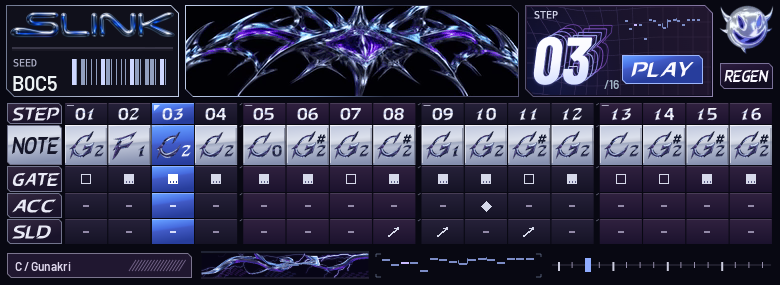
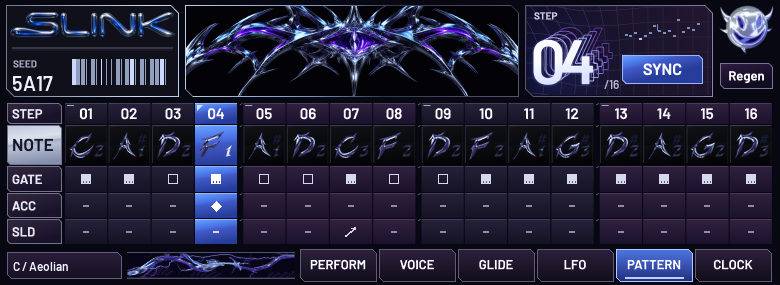
docs: publish the six freesp16 pages and refresh desktop captures

diff --git a/README.md b/README.md
@@ -10,12 +10,12 @@
   </tr>
   <tr>
     <td align="center"><a href="docs/slink-screen.gif"><img src="docs/slink-screen.gif" alt="Slink cycling through Pattern, Voice, Tone, Sequencer, and Clock in hdslaveOS Stage"></a></td>
-    <td align="center"><a href="#freesp16-on-sp-16"><img src="docs/slink-sp16-thorn.png" alt="Slink’s freesp16 Pattern page with its chrome crest and sixteen-step score"></a></td>
+    <td align="center"><a href="docs/screen.md#thorn-crown-on-freesp16"><img src="docs/slink-sp16-thorn.png" alt="Thorn Crown playing a sixteen-step pattern on freesp16"></a></td>
     <td align="center"><a href="mac-clap/assets/desktop-preview.gif"><img src="mac-clap/assets/desktop-preview.gif" alt="Slink acid bass sequencer and voice controls during playback"></a></td>
   </tr>
 </table>
 
-[See all five silver MPC pages](docs/screen.md#silver-panel-on-mpc) · [View the Blacklight Transfer theme](docs/slink-mpc-blacklight.png)
+[See all six freesp16 pages](docs/screen.md#thorn-crown-on-freesp16) · [Watch the freesp16 panel in motion](docs/slink-sp16.gif) · [See all five silver MPC pages](docs/screen.md#silver-panel-on-mpc) · [View Blacklight Transfer](docs/slink-mpc-blacklight.png)
 
 [Download Slink 0.6.1 for MPC Sample](https://github.com/hdslave/hdslave-Slink-Synth/releases/tag/v0.6.1) · [Download Slink 0.6.0 for freesp16, macOS or Windows](https://github.com/hdslave/hdslave-Slink-Synth/releases/tag/v0.6.0)
 
@@ -107,9 +107,9 @@ for Diode and 18 dB, the band's lower edge for Twin Peak. So with Resonance at 0
 | Control | Range | The applet's |
 |---|---|---|
 | Mode | Sequence / Notes | — (new). The sequencer on or off. **Sequence** plays the voice, and pads 1-16 play its steps (see [MIDI notes and pads](#midi-notes-and-pads)). **Notes**: your MIDI notes play it instead, the pads too, chromatic (see [Mode: Notes](#mode-notes)); TB-3PO goes on counting unheard, so switching back lands in time. |
-| Seed Mode | Random / Locked | The die / the lock. **Random**: every reset picks a new seed (a new pattern); the Seed shows it. **Locked**: the seed stays. |
-| Seed | 0000 – ffff | The 16-bit seed, shown in hex as on the module. A new seed plays from the next clock. |
-| Regen | button | Turning the encoder past the die or the lock: a reset now. |
+| Seed Mode | Random / Locked | New instances start **Locked**. **Random**: every reset picks a new seed (a new pattern); the Seed shows it. **Locked**: the seed stays. |
+| Seed | 0000 – ffff | The 16-bit seed, shown in hex as on the module. While stopped, an edit updates the score immediately. During playback it takes effect on the next clock. |
+| Regen | button | A reset pulse. Pressing Regen on the instrument panel explicitly picks a fresh seed, including in Locked mode. |
 | Mutate | 0 – 100 % | — (new): at a reset that brings a new seed (Seed Mode: Random), only this share of the steps take the new seed's pattern; the rest keep the one playing, so the line changes a little each time. Which steps change comes from the new seed. 0 % is the applet. Seed and Seed Back give a seed's own pattern, not the mutated mix. |
 | Seed Back | button | — (new): back to the seed before, and Seed Mode to Locked so the next Play keeps it. It remembers the last 16 seeds whose patterns played (a knob turned through seeds remembers only the ones that played); press again to go further back. |
 | Density | -7 – +7 | Density. Its distance from 0 sets how many steps play (0: 10 %, ±7: all); left of +1, fewer different pitches and more repeated notes (-7: the root alone). |
@@ -153,9 +153,8 @@ the bottom left.
 - **Nothing moves.** The play head, the seed, Seed Back's memory and the transposition stay as they were. While the
   host plays, the sequencer's next step takes the voice back, as it would have played. A pad hit on the very frame a
   step comes (Play, say) gives way to that step.
-- **The pattern that will play.** A seed, Density or a scale with another number of notes set while stopped waits
-  for the next clock (the screen reads PENDING over the pattern before): the pads already play the steps that clock
-  will play.
+- **The pattern that will play.** Changing Seed while stopped updates the score and the steps you can audition. Density and scale-size edits take
+  effect on the next clock. The pads already audition the steps that clock will play.
 - **Letting go does nothing**: the step plays to its end. A pad hit again while its step sounds strikes again (both
   envelopes from the start). Two pads at once (in one block): the louder plays, once; on a tie, the later. A host's
   choke of the pad, or All Sound Off (CC 120), stops it; all notes off (CC 123) does not. All Sound Off (and a choke
@@ -192,7 +191,7 @@ step (legato: no new envelope, but the step's own accent and decay). Accented st
 pattern holds 32 steps of notes, gates, slides, accents and octave flags; Steps sets how many play.
 
 The pattern is made again from the seed at the next clock when Density, the scale's number of notes or the seed
-changes. Root, Octave, Transpose and a scale of the same size only move its pitches.
+changes during playback. A seed edited while stopped updates the pattern immediately. Root, Octave, Transpose and a scale of the same size only move its pitches.
 
 ### What the module does, kept
 
@@ -212,7 +211,7 @@ These come from the applet's code and are kept so the plug-in plays what the mod
   exact.
 - **The gate's length comes from the tempo.** The applet measures half a clock from the last two clocks: the same
   while the tempo holds (on the module the first note after the clock starts is long).
-- **A new seed plays from the next clock.** On the module a typed-in seed waits for a Regen pulse (its later
+- **While stopped, an edit updates the score immediately. During playback it takes effect on the next clock.** On the module a typed-in seed waits for a Regen pulse (its later
   firmware changed this too).
 - **The host stopping shuts the gate.** The module would hold a sliding step's gate until the next clock.
 - **A scale change requantizes the transposition.** The module's quantizer keeps the cell it chose in the old
@@ -234,8 +233,7 @@ instance on every page, in Edit and Stage, until Melodee restarts; projects and 
 - **PATTERN**, TB-3PO's own screen: the seed (locked or random), the transport and the step in the dark window; then
   the scale, root, octave, density and division; then one column a step with its number, nearest note, gate (a
   filled block; a rest is hollow), accent (a diamond) and outgoing slide (an arrow), the playing column lit. A
-  32-step pattern stacks two banks of 16. The wheel dials the seed and locks it, so the pattern you dial is kept; it
-  plays from the next clock (until then the window reads PENDING over the pattern still playing); Push is Regen;
+  32-step pattern stacks two banks of 16. The wheel dials the seed and locks it, so the pattern you dial is kept; a stopped edit updates the score immediately. During playback the window reads PENDING until the next clock; Push is Regen;
   Shift + Push is Seed Back. K1-K3: Cutoff, Resonance, Env Mod. [docs/screen.md](docs/screen.md) has the details.
 - **VOICE** and **TONE**: the voice's knobs, beside the filter's response (Cutoff's reading marked). VOICE ends with the cutoff LFO. TONE ends with the pitch LFO.
 - **SEQUENCER** and **CLOCK**: SEQUENCER pairs its settings with the score. On the silver CLOCK page, Clock Div, Swing, Reset and Theme sit above a full-width score.
@@ -249,14 +247,14 @@ choice a step, a knob 1/128, 1/1024 with Shift; Push again leaves), or presses a
 
 | Preset | Seed | Patch |
 |---|---|---|
-| Default | Random | The applet's start: Gunakri, density +5, 16 steps; a new pattern every Play. |
+| Default | 3039 | Gunakri, density +5, 16 steps. Play restarts the same pattern. |
 | Acid Line | 5a17 | Aeolian, density +5, low cutoff, high resonance and accent. |
 | Root Pulse | 0303 | Semitone, density -7: every step plays, the root alone, with octave jumps and full accent. |
 | Square Lead | beef | Phrygian, square wave an octave up, the 303 glide. |
 | Dub Steps | 1d0b | Dorian, density +3, 12 steps an octave down, long decay. |
 | Note Bass | — | Mode: Notes: a dark, resonant bass to play from Melodee's notes (glides and accents as above). |
 
-All the TB-3PO presets but Default lock their seed, so they play the same pattern every time.
+All the TB-3PO presets lock their seed, so they play the same pattern every time.
 
 ## Cost
 
@@ -282,11 +280,11 @@ nothing until it is hit (then a step's pitch, or a pattern made again once when 
 
 The ARMv7 build is version **0.6.0**. Its panel uses freesp16’s custom-screen extension and six physical encoders. Choose **Track Type → Plugin → Select Plugin → hdslave Slink → Open UI**. The release ZIP installs the plug-in at `freesp16-data/freesp16/Plugins/TB-MPC-3-P-0.clap` on a stick with a plug-in-capable freesp16 build.
 
-Slink on freesp16 opens on the **Thorn Crown Pattern** page. Sixteen columns show the step number, pitch, gate, accent and outgoing slide. The cobalt column follows playback. The note row uses Razor Choir, a set of hooked chrome pitch letters with matching numerals for steps and octaves. The octave sits low to the right of each letter, with the sharp directly above it when present. Tap a column to audition its step. During playback the grid follows steps 17–32 automatically. When stopped, tap the large step counter to switch halves of a long pattern.
+Slink on freesp16 opens on the **Thorn Crown Pattern** page. Sixteen columns show the step number, pitch, gate, accent and outgoing slide. The cobalt column follows playback. The note row uses Razor Choir, with hooked chrome pitch letters and matching octave numerals. The numbered headers and panel controls use Barlow SemiBold. The octave sits low to the right of each letter, with the sharp directly above it when present. Press a numbered header to audition its step. Drag a pitch vertically to edit it in semitones. Tap Gate, Accent or Slide to toggle it, or drag across the row to paint the same setting. The first edit locks a random pattern to its displayed seed. The project saves edits with that seed. During playback the grid follows steps 17–32 automatically. When stopped, tap the large step counter to switch halves of a long pattern.
 
-**Play** auditions the sequence locally at the host tempo while the transport is stopped. **Stop** ends that preview. Starting freesp16’s transport takes over and the button reads **Sync**. Tap the thorn crest to pause or resume its camera independently. **Regen** regenerates the pattern, and tapping the seed plate recalls the previous seed.
+**Play** auditions the sequence locally at the host tempo while the transport is stopped. **Stop** ends that preview. Starting freesp16’s transport takes over and the button reads **Sync**. Tap the thorn crest to pause or resume its camera independently. **Regen** rolls a fresh seed each time you tap it. **Locked** keeps that seed across transport starts. Tap the seed value to recall a previous seed. Drag the barcode to adjust the seed.
 
-Tap the root/scale plate at lower left for the six bank tabs, or use the main selector to move between banks. The six encoders follow the selected bank. Voice displays the filter response, LFO shows modulation over one beat, and Perform, Glide and Clock retain the touch-playable pitch ribbon.
+Tap **Perform**, **Voice**, **Glide**, **LFO**, **Pattern** or **Clock** along the bottom of any Slink page. The cobalt underline marks the active bank. Turn its six encoders or drag up or down on the corresponding values in the host strip below. The main selector also changes banks. The crest, transport and seed controls stay in the same place throughout. On **Voice**, drag across the response graph to change cutoff or upward to increase resonance. The diamond follows your finger. Frequency is logarithmic and the silver curve shows the modeled gain in dB. On LFO, dragging horizontally across either plot changes its rate and dragging upward increases its depth. Perform, Glide and Clock have numbered audition headers and pitch cells that you can drag vertically. Drag a parameter readout to change its value.
 
 | Bank | Encoders 1–6 |
 | --- | --- |
@@ -297,7 +295,7 @@ Tap the root/scale plate at lower left for the six bank tabs, or use the main se
 | Pattern | Seed Mode, Seed, Mutate, Density, Scale, Root |
 | Clock | Mode, Clock Div, Swing, Reset, Steps, Octave |
 
-In **Sequence** mode, tap or slide across the score to audition individual steps. The physical pads do the same in freesp16’s **Scale** pad mode with the chromatic scale, centre window and zero key shift. MIDI notes 60–75 address the first sixteen steps. A pattern longer than sixteen extends that range, up to note 91. Other notes transpose the sequence. In **Notes** mode the pads play chromatic pitches. **Regen** resets the generator and **Seed back** recalls a previous seed. The six factory patches are under the host’s **Presets** menu.
+In **Sequence** mode, tap a step number or slide across the numbered headers to audition individual steps. The physical pads do the same in freesp16’s **Scale** pad mode with the chromatic scale, centre window and zero key shift. MIDI notes 60–75 address the first sixteen steps. A pattern longer than sixteen extends that range, up to note 91. Other notes transpose the sequence. In **Notes** mode the pads play chromatic pitches. **Regen** resets the generator and **Seed back** recalls a previous seed. The six factory patches are under the host’s **Presets** menu.
 
 The freesp16 toolchain builds and tests the device plug-in with this command.
 

diff --git a/docs/screen.md b/docs/screen.md
@@ -4,9 +4,7 @@ On hdslaveOS 0.8.2, open **Stage → Panel**. Edit shows the host’s parameter 
 
 Each new plug-in instance opens in **Press Plate**. To audition **Blacklight Transfer**, use Plus to reach **CLOCK**, turn the wheel to **THEME** and press the encoder. Another press switches back. The choice follows this instance across all five pages and between Edit and Stage for the session. Project and preset files contain the instrument settings only.
 
-The freesp16 edition opens on the **Thorn Crown** Pattern page. The score uses Razor Choir. Each pitch has a hooked chrome letter, with its octave at the lower right and its sharp directly above. Step numbers and octaves use the same cut numerals. The native panel draws pre-rendered color glyphs with transparent edges over the silver and cobalt cells. The crest uses a twenty-second baked camera move. The smiley and the narrow whip strip animate separately. [SP-16 controls](../README.md#freesp16-on-sp-16)
-
-Build the offline browser study with `python3 tools/sp16_thorn/build.py` and open `build/slink-thorn-crown.html`. Its editable example runs on a silent local clock. The native plug-in displays the engine's generated pattern and auditions touched steps. [Razor Choir pitch lettering](../tools/sp16_thorn/razor-choir.js) · [Native artwork baker](../tools/sp16_thorn/bake_native.py)
+Build the offline browser study with `python3 tools/sp16_thorn/build.py` and open `build/slink-thorn-crown.html`. Its editable example runs on a silent local clock. The native plug-in displays the engine’s pattern. Touch a step number to audition, drag its note vertically to change pitch, or drag along Gate, Accent or Slide to paint switches. [Razor Choir pitch lettering](../tools/sp16_thorn/razor-choir.js) · [Native artwork baker](../tools/sp16_thorn/bake_native.py)
 
 The blue-chrome Slink wordmark starts seven pixels from the left edge and spans 216 pixels of the brushed silver header on all five Press Plate pages. The lettering has three pixels of brushed silver above it and two below it before the dark edge. The brushed face grades from a soft upper-left highlight into a deeper silver at the lower right. The page name sits in the angled tab to its right. Iridescent lines run through the cobalt trim and black readout below the nameplate. The lime melting smiley sits at the right end. PATTERN uses the dark window for the four-digit seed, seed mode, transport and position. Turning the seed dial before publication shows PENDING and the seed of the score still on screen. In Notes mode the title bar reads “MIDI / SEQ MUTED”. Before the first pattern arrives the score displays “Awaiting clock”.
 
@@ -15,6 +13,20 @@ Each column of the punched-metal matrix shows one step's number, nearest note, g
 On all five Blacklight Transfer pages, the blue-chrome Slink title sits directly on the navy panel between the smiley ticket and the lavender page tab. A curved highlight and a reflected pink edge give the dripping lime face a jelly finish. The graph sits in a shallow recess, with shaded focus rows and pot rails below. PATTERN plots notes on a pitch roll. Filled notes indicate gates, hollow notes are rests, and pink connectors mark slides. VOICE and TONE place the filter trace above two columns of controls. [Blacklight Pattern in Stage](slink-mpc-blacklight.png) · [Smiley ticket](../assets/art/blacklight-pass.png)
 
 On all five pages in both themes, two narrow slices through the smiley’s lower drips move sideways on a four-step downbeat or a gated accent. The offset grows from one native pixel to two, returns to one, and settles after 144 ms. Closely spaced hits share the current pulse. Stop clears it immediately. The motion uses Melodee’s display clock and the published sequencer position.
+
+## Thorn Crown on freesp16
+
+These six captures show the ARM plug-in playing the same 16-step pattern at its native 780 × 285 resolution. Tap an image to see the lettering at full size. [Watch all six pages during playback](slink-sp16.gif)
+
+| Pattern | Voice |
+| --- | --- |
+| [![Pattern with chrome notes on black keys, gate squares, accent diamonds and slide arrows](slink-sp16-thorn.png)](slink-sp16-thorn.png) | [![Voice with its cutoff and resonance cursor on the filter response](slink-sp16-voice.png)](slink-sp16-voice.png) |
+| **Perform** | **Glide** |
+| [![Perform with cutoff, resonance and a numbered pitch ribbon](slink-sp16-perform.png)](slink-sp16-perform.png) | [![Glide with slide timing and the pitch contour](slink-sp16-glide.png)](slink-sp16-glide.png) |
+| **LFO** | **Clock** |
+| [![LFO with separate pitch and cutoff modulation curves](slink-sp16-lfo.png)](slink-sp16-lfo.png) | [![Clock with division and swing above the playing steps](slink-sp16-clock.png)](slink-sp16-clock.png) |
+
+The freesp16 edition opens on the **Thorn Crown** Pattern page. The score uses Razor Choir. Each pitch has a hooked chrome letter, with its octave at the lower right and its sharp directly above. The numbered headers, counter, switches, tabs and parameter labels use Barlow SemiBold. The native panel draws pre-rendered color glyphs with transparent edges over black note keys and a cobalt playhead. The crest follows a twenty-second camera move and the whip strip loops every eight seconds. Both use 30 frames per second. The chrome face blends adjacent poses on its own 4.8-second cycle. All six SP-16 pages share the crest, animated smiley, whip strip, transport and bank tabs. The three pitch ribbons show chrome notes over near-black cells, with a separate numbered row for audition. Voice overlays a cutoff/resonance touch cursor on the modeled filter response. The lower axis shows frequency, the left scale shows gain in dB and the right scale shows resonance. LFO plots its curves on dark violet glass. [SP-16 controls](../README.md#freesp16-on-sp-16)
 
 ## Silver panel on MPC
 

diff --git a/mac-clap/README.md b/mac-clap/README.md
@@ -2,13 +2,15 @@
 
 Separate desktop CLAP build of **hdslave Slink** for **FL Studio** (2024+) and any other CLAP host on macOS (Apple Silicon / Intel) and Windows (x64).
 
-![Slink’s Razor Choir panel playing the Acid Line preset on macOS](assets/desktop-preview.gif)
+![Slink’s Razor Choir panel playing the Default preset on macOS](assets/desktop-preview.gif)
+
+[View the Windows panel at full size](assets/windows-preview.png)
 
 Slink 0.7.3 on macOS and Windows uses the SP-16 Razor Choir score. Each note has its own chrome letter with a separate sharp and octave. The plate beside the seed enlarges the current note. Click a step to inspect it there. Key and scale sit below the score beside the animated chrome whips, pitch contour and position rail. The counter offers **Play** and **Stop** in hosts that support CLAP transport requests. Other hosts show their transport state there.
 
 All 34 host parameters fit on one resizable panel down to 960 × 540.
 
-- Start playback in the host to advance the cobalt playhead. The chrome face turns and pulses on every fourth step and on gated accents. The lower strip loops two metal whips and forked lightning. Click a step to inspect it. Patterns longer than 16 steps have two banks and a **Follow** switch.
+- Start playback in the host to advance the cobalt playhead. The chrome face turns on its own 4.8-second cycle. The lower strip loops two metal whips and forked lightning. Click a step to inspect it. New instances start with a locked seed. Click Regen to roll another seed and keep it for the next Play. Patterns longer than 16 steps have two banks and a **Follow** switch.
 - Click the enamel **Regen** button for a new pattern. Drag the seed under the Slink wordmark to set a seed. Click **Key** or **Scale** to choose from a list.
 - Drag or scroll a control to edit it. Hold Shift or enable **Fine** for small adjustments. Clicking a choice opens its menu. Double-click a control to reset it, or right-click for reset and MIDI mapping.
 - Drag the filter response horizontally for cutoff and vertically for resonance. Drag across the score for transpose and vertically for density. These gestures send both parameters to the host for automation.
@@ -45,7 +47,7 @@ Copy `build\windows\clap\Release\Slink.clap` to `C:\Program Files\Common Files\C
 
 ## Desktop artwork
 
-Both builds embed the same SP-16 artwork bank, including 240 crest frames, 96 whip-storm frames and 33 poses of the chrome Regen face. The crest and storm play at 12 frames per second. The score, filter curve and controls follow the instrument.
+Both builds embed the same SP-16 artwork bank, including 600 crest frames, 240 whip-storm frames and 33 poses of the chrome Regen face. The crest and storm play at 30 frames per second. The score, filter curve and controls follow the instrument.
 
 Normal builds use the committed bank. To repack the desktop artwork, run `mac-clap/tools/bake_razor.py` with the SP-16 checkout containing `assets/sp16-thorn/panel.bank` and `tools/sp16_thorn`, followed by a Chromium executable. The baker uses Python, Pillow and Playwright.
 
